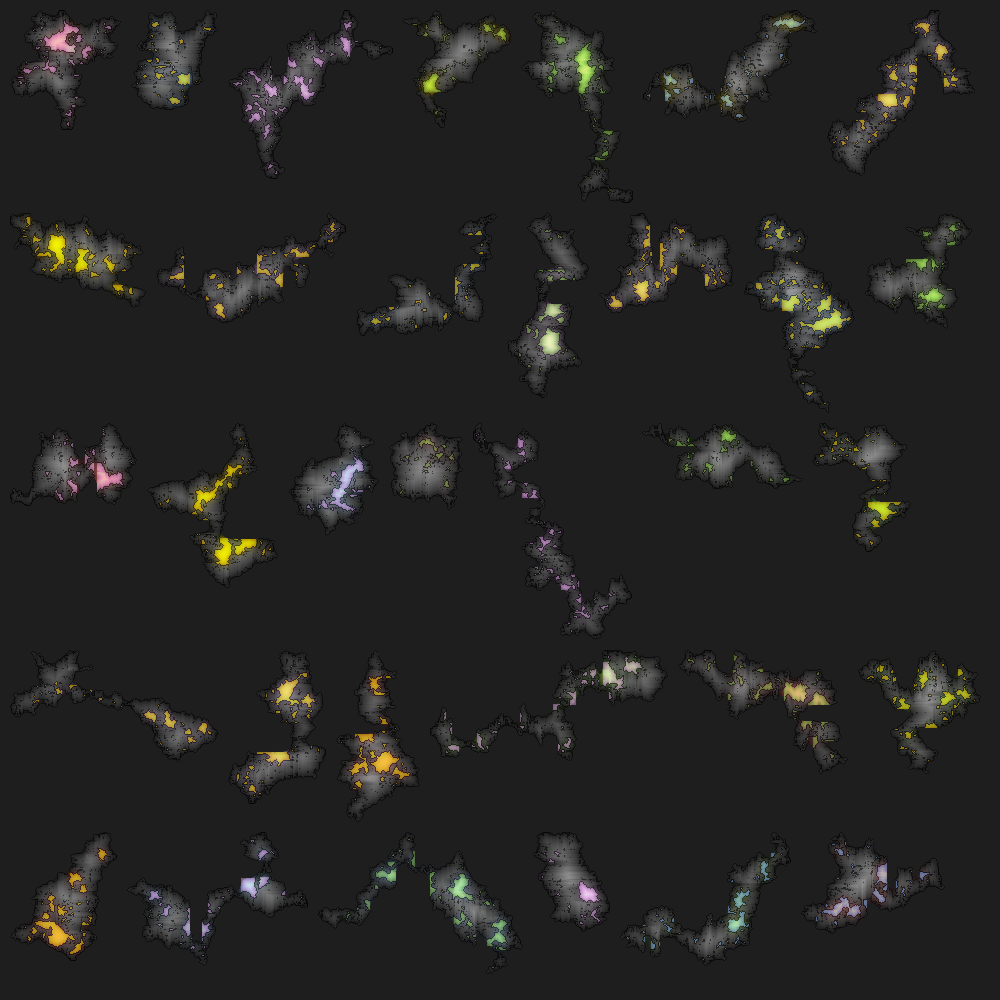
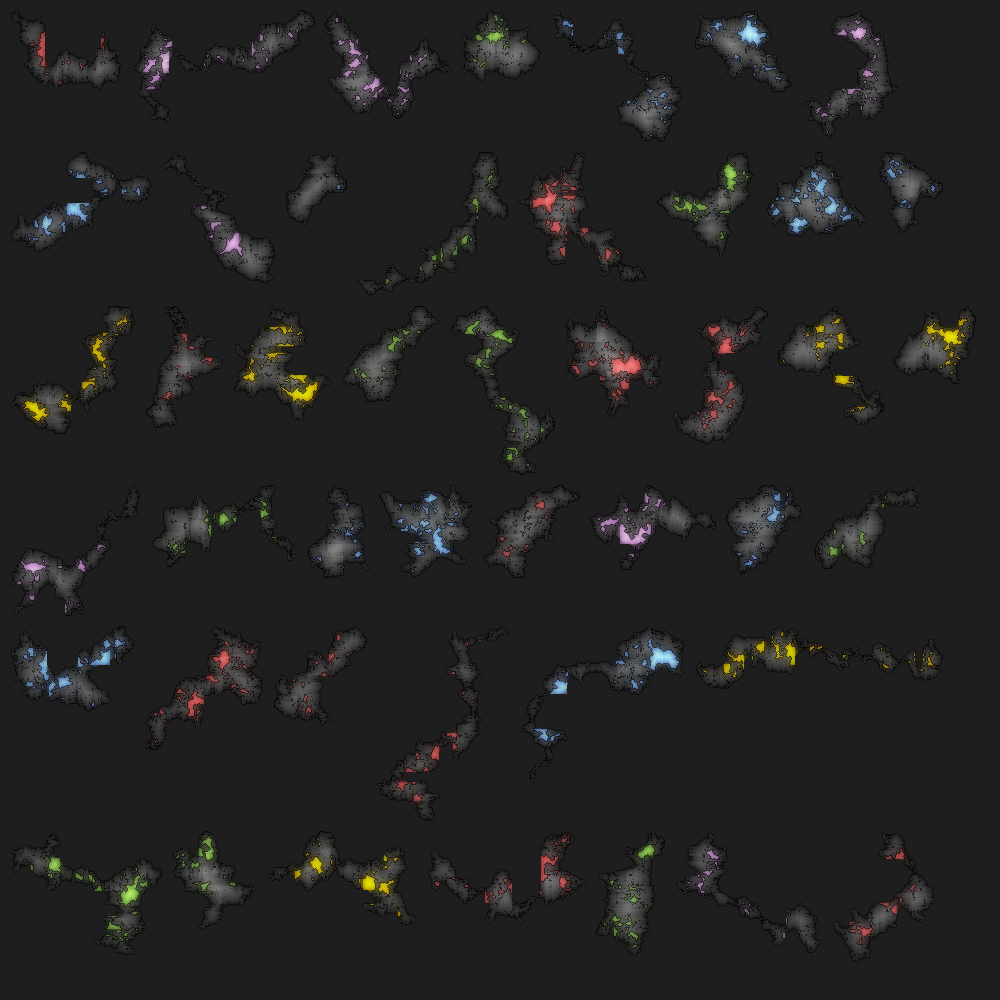
Fixed a bug with image renderer

diff --git a/src/ajb/utils/ImageUtils.java b/src/ajb/utils/ImageUtils.java
@@ -20,8 +20,11 @@ import ajb.random.RandomColor;
 public class ImageUtils {
 
 	public static BufferedImage outputToImage(Pixel[][] grid, Color borderColor, Color primaryColor, Color secondaryColor, Color tertiaryColor, Color emptyColor) {
-		BufferedImage baseImg = createImage(grid, borderColor, primaryColor, secondaryColor, tertiaryColor, emptyColor);
-		BufferedImage layer1Img = createImage(grid, borderColor, primaryColor, secondaryColor, tertiaryColor, emptyColor);
+		
+		Color col = Color.decode(ColorUtils.getRandomColour());
+		
+		BufferedImage baseImg = createImage(grid, borderColor, primaryColor, col, col, emptyColor);
+		BufferedImage layer1Img = createImage(grid, borderColor, primaryColor, col, col, emptyColor);
 		
 		GaussianFilter filter = new GaussianFilter();
 		filter.setRadius(12f);
@@ -47,30 +50,6 @@ public class ImageUtils {
 
 		gr.setRenderingHint(RenderingHints.KEY_ANTIALIASING, RenderingHints.VALUE_ANTIALIAS_ON);
 
-		Color firstColor = null;
-
-		if (primaryColor != null) {
-			firstColor = primaryColor;
-		} else {
-			firstColor = RandomColor.anyRandomColor();
-		}
-
-		Color secondColor = null;
-
-		if (secondaryColor != null) {
-			secondColor = secondaryColor;
-		} else {
-			secondColor = Color.decode(ColorUtils.getRandomColour());
-		}
-
-		Color thirdColor = secondColor;
-
-//		if (tertiaryColor != null) {
-//			thirdColor = tertiaryColor;
-//		} else {
-//			thirdColor = Color.decode(ColorUtils.getRandomColour());
-//		}
-
 		for (int r = 0; r < grid.length; r++) {
 			for (int c = 0; c < grid[0].length; c++) {
 
@@ -86,16 +65,16 @@ public class ImageUtils {
 
 				} else if (grid[r][c].value == Pixel.FILLED) {
 
-					gr.setColor(ColorUtils.lighter(firstColor, grid[r][c].depth * 0.1));
+					gr.setColor(ColorUtils.lighter(primaryColor, grid[r][c].depth * 0.1));
 					gr.fillRect(c * scaleFactor, r * scaleFactor, scaleFactor, scaleFactor);
 
 				} else if (grid[r][c].value == Pixel.SECONDARY) {
 
-					gr.setColor(ColorUtils.lighter(secondColor, grid[r][c].depth * 0.1));
+					gr.setColor(ColorUtils.lighter(secondaryColor, grid[r][c].depth * 0.1));
 					gr.fillRect(c * scaleFactor, r * scaleFactor, scaleFactor, scaleFactor);
 				} else if (grid[r][c].value == Pixel.TERTIARY) {
 
-					gr.setColor(ColorUtils.lighter(thirdColor, grid[r][c].depth * 0.1));
+					gr.setColor(ColorUtils.lighter(tertiaryColor, grid[r][c].depth * 0.1));
 					gr.fillRect(c * scaleFactor, r * scaleFactor, scaleFactor, scaleFactor);
 				} else if (grid[r][c].value == Pixel.EMPTY) {
 

diff --git a/src/ajb/factory/AsteroidGeneratorFactory.java b/src/ajb/factory/AsteroidGeneratorFactory.java
@@ -85,7 +85,7 @@ public class AsteroidGeneratorFactory {
 		Point point = new Point(ROWS / 2, COLS / 2);
 
 		int steps = 50;
-		int subSteps = 300;
+		int subSteps = 200;
 
 		for (int i = 0; i < steps; i++) {
 			for (int y = 0; y < subSteps; y++) {
